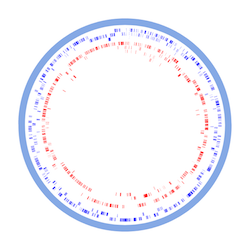
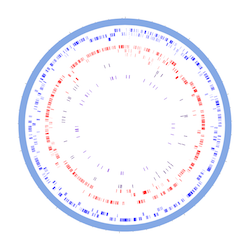
feat: update gene model thumbnails to include pseudogene tracks

diff --git a/src/features/BirdsEye/Circos/CircosGenesDisplay.js b/src/features/BirdsEye/Circos/CircosGenesDisplay.js
@@ -80,9 +80,9 @@ type Props = {
 const Description = ({ match }: Object) => (
   <div>
     <p>
-      Circos visualization for canonical gene models of D.discoideum{" "}
+      Circos visualization for canonical gene models of <em>D.discoideum</em>{" "}
       {chrNameExtender(match.params.id)}.
-    </p>{" "}
+    </p>
     <ul>
       <li>
         <span style={{ color: "blue" }}>Blue</span> = Negative gene strands

diff --git a/src/app/actions/birdsEyeActions.js b/src/app/actions/birdsEyeActions.js
@@ -17,9 +17,8 @@ const {
 
 const chrUrl = process.env.REACT_APP_CHROMOSOMES_JSON
 const genesUrl = process.env.REACT_APP_GENES_JSON
-const pseudogenesUrl = `${
-  process.env.REACT_APP_API_SERVER
-}/dashboard/genomes/44689/pseudogenes`
+const pseudogenesUrl =
+  "https://betafunc.dictybase.org/dashboard/genomes/44689/pseudogenes"
 
 /**
  * All of the Redux actions related to the Bird's Eye Dashboard
